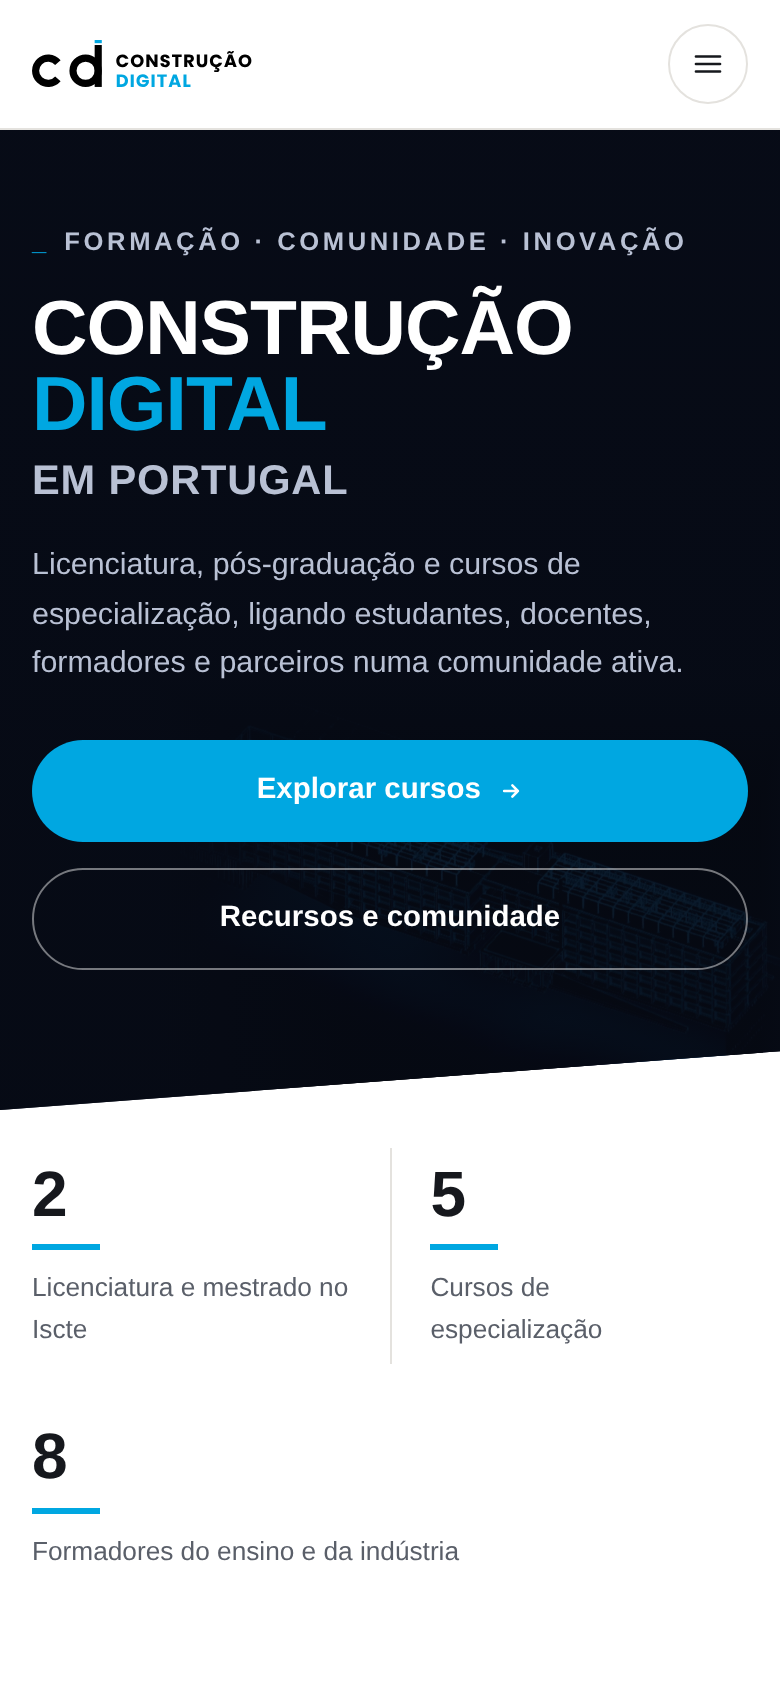
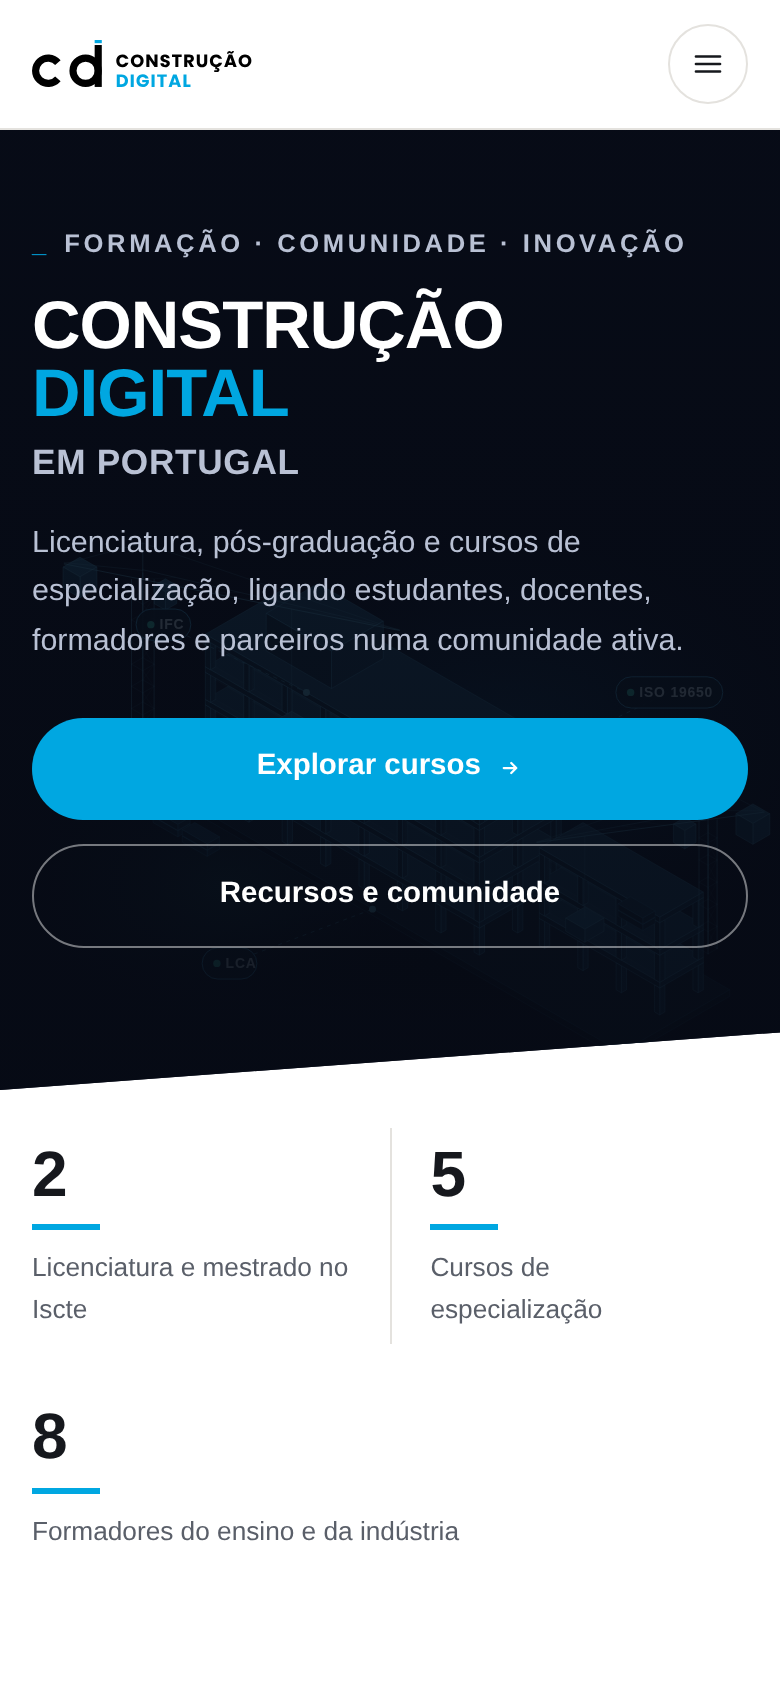
Topo liso, sem imagem
Fora a ilustração gerada e todas as camadas que a acompanhavam. O topo
fica escuro e liso, só com o texto. Apagado o SVG que deixou de ser
usado.

Claude-Session: https://claude.ai/code/session_01Co6nHqUHrwGTWwpJGR2PDN

diff --git a/assets/css/style.css b/assets/css/style.css
@@ -2513,42 +2513,14 @@ p {
   border-color: #ffffff;
 }
 
-/* Imagem do modelo no topo da página inicial */
+/* Topo da página inicial */
 
-.hero-modelo {
-  /* Ilustração do topo. Para trocar, substitui assets/img/modelo-bim.svg */
-  background:
-    url('../img/modelo-bim.svg') right -3% bottom -4% / 46% auto no-repeat,
-    var(--hero-bg);
-}
-
-.hero-veu {
-  position: absolute;
-  inset: 0;
-  background:
-    linear-gradient(
-      100deg,
-      rgba(6, 10, 20, 0.82) 0%,
-      rgba(6, 10, 20, 0.6) 38%,
-      rgba(6, 10, 20, 0.2) 68%,
-      rgba(6, 10, 20, 0) 100%
-    ),
-    radial-gradient(780px 420px at 8% 40%, rgba(6, 10, 20, 0.55), transparent 70%);
+.hero-liso {
+  background: var(--hero-bg);
 }
 
 .hero-content {
   z-index: 1;
-}
-
-@media (max-width: 860px) {
-  .hero-modelo {
-    background-size: 94% auto;
-    background-position: right -6% bottom 4%;
-  }
-
-  .hero-veu {
-    background: linear-gradient(180deg, rgba(6, 10, 20, 0.78) 0%, rgba(6, 10, 20, 0.86) 55%, rgba(6, 10, 20, 0.92) 100%);
-  }
 }
 
 /* Vídeo a correr no fundo do destaque */

diff --git a/index.html b/index.html
@@ -17,8 +17,7 @@
 
     <header class="site-header" id="topo" data-componente="cabecalho"></header>
 
-    <section class="hero hero-modelo" aria-labelledby="hero-title">
-      <div class="hero-veu" aria-hidden="true"></div>
+    <section class="hero hero-liso" aria-labelledby="hero-title">
       <div class="container hero-content">
         <div class="hero-copy">
           <p class="eyebrow"><span class="dash">_</span> Formação · Comunidade · Inovação</p>
